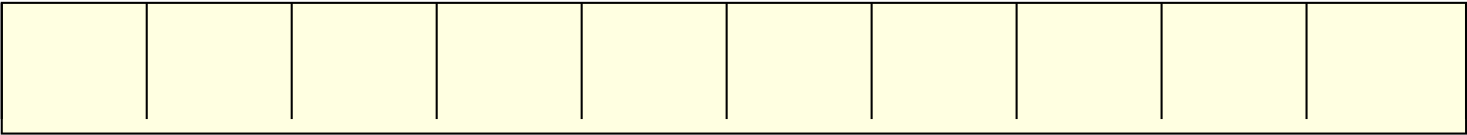
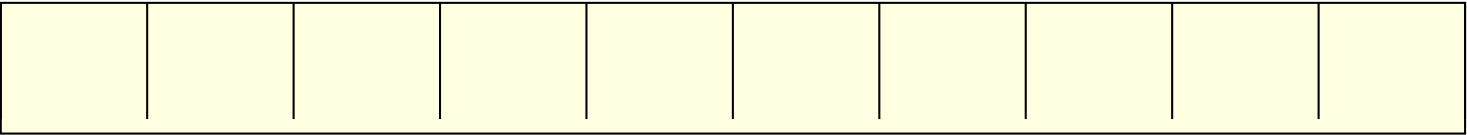
Finished layout and consistency for matching random object lengths with displayed rulers.

diff --git a/templates/measurement_practice.html b/templates/measurement_practice.html
@@ -29,13 +29,19 @@
     </section>
     <section class="container text-center">
         <div class="row">
-            <div class="col-1 right-side-label">
+            <div class="col-1 left-ruler-mark border-start border-secondary">
                 <p>{{start_value}}</p>
             </div>
-            <figure class="col-10">
-                <p class="text-center">{{(end_value - start_value)/2 + start_value}}</p>
-            </figure>
-            <div class="col-1 left-side-label">
+            <section class="col-10 center-ruler-mark">
+                {% if num_divisions == 1 %}
+                    <p> </p>
+                {% elif end_value > 1 %}
+                    <p class="text-center">{{end_value//2}}</p>
+                {% else %}
+                    <p class="text-center">{{end_value/2}}</p>
+                {% endif %}
+            </section>
+            <div class="col-1 right-ruler-mark border-end border-secondary">
                 <p>{{end_value}}</p>
             </div>
         </div>

diff --git a/static/style.css b/static/style.css
@@ -104,3 +104,24 @@
     margin-top: 5%;
     margin-bottom: 5%;
 }
+
+.left-ruler-mark {
+    display: inline-block;
+    text-align: left;
+    padding-left: 0%;
+    font-size: 1.5vw;
+    border-left: 1px;
+}
+
+.right-ruler-mark {
+    display: inline-block;
+    text-align: right;
+    padding-right: 0%;
+    font-size: 1.5vw;
+}
+
+.center-ruler-mark {
+    display: inline-block;
+    text-align: center;
+    font-size: 1.5vw;
+}

diff --git a/main.py b/main.py
@@ -12,7 +12,7 @@ def pick_numbers(divisions):
     # Set the end number on the ruler (1, 10, 1000, or 10,000 units larger than start)
     last_num = first_num + 10**(random.randint(-2, 3))
     last_sig_fig_position = (last_num-first_num)/(10*divisions)
-    return (first_num, last_num, last_sig_fig_position)
+    return [first_num, last_num, last_sig_fig_position]
 
 @app.route('/')
 def index():
@@ -22,9 +22,7 @@ def index():
 def measurement():
     num_divisions = random.choice([1, 10, 100])
     numbers = pick_numbers(num_divisions)
-    # wide = round(random.uniform(starting_value, end_value-1)/end_value*100,2)
-    # object_length = round(starting_value + wide/100*num_divisions,2)
-    object_length = random.uniform(numbers[0]*1.03, numbers[1])
+    object_length = random.uniform(numbers[1]*0.03, numbers[1])
     if numbers[2] < 1:
         round_to = -1*int(round(log(numbers[2],10),1))
         object_length = round(object_length, round_to)
@@ -33,8 +31,7 @@ def measurement():
         object_length = int(object_length/10**round_to)*10**round_to
     else:
         object_length = int(object_length)
-    # wide = round(9.96*object_length+0.261, 1)
-    wide = object_length/numbers[1]*100
+    wide = round(9.965*object_length*10/numbers[1]+0.2614, 3)
     return render_template('measurement_practice.html',title='Measurement Practice', 
         wide = wide, start_value = numbers[0], end_value = numbers[1], 
         object_length = object_length, num_divisions = num_divisions, nums = numbers)
